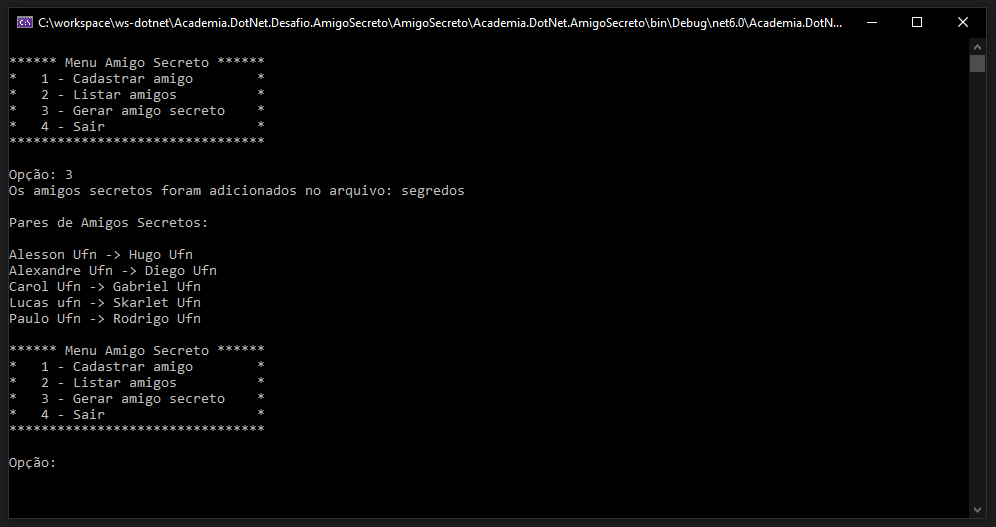
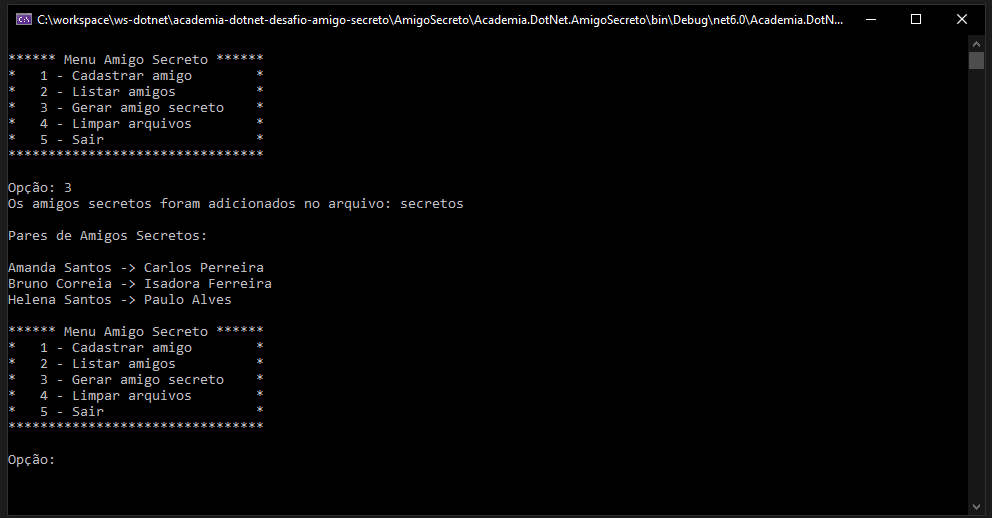
Aplicando melhorias

diff --git a/AmigoSecreto/Academia.DotNet.AmigoSecreto/Data/Persistencia.cs b/AmigoSecreto/Academia.DotNet.AmigoSecreto/Data/Persistencia.cs
@@ -23,6 +23,11 @@ namespace Academia.DotNet.AmigoSecreto.Data
                         listaDeAmigos.Add(new Amigo(dados[0], dados[1]));
                     }
                 }
+
+                if (listaDeAmigos.Count == 0)
+                {
+                    Console.WriteLine("Aviso: A lista de amigos está vazia.");
+                }
             }
 
             return listaDeAmigos;
@@ -46,7 +51,7 @@ namespace Academia.DotNet.AmigoSecreto.Data
             Console.WriteLine("O amigo foi adicionado no arquivo: amigos");
         }
 
-        public List<Tuple<Amigo, Amigo>> LerParesAmigosSecretos()
+        public List<Tuple<Amigo, Amigo>> LerParesDosAmigosSecretos()
         {
             List<Tuple<Amigo, Amigo>> paresAmigosSecretos = new List<Tuple<Amigo, Amigo>>();
 
@@ -58,17 +63,32 @@ namespace Academia.DotNet.AmigoSecreto.Data
                     {
                         string linha = streamReader.ReadLine();
                         string[] dados = linha.Split(';');
-                        Amigo amigo1 = new Amigo(dados[0], "");
-                        Amigo amigo2 = new Amigo(dados[1], "");
-                        paresAmigosSecretos.Add(new Tuple<Amigo, Amigo>(amigo1, amigo2));
+
+                        if (dados.Length >= 4)
+                        {
+                            Amigo amigoEsquerdo = new Amigo(dados[0], dados[1]);
+                            Amigo amigoDireito = new Amigo(dados[2], dados[3]);
+
+                            paresAmigosSecretos.Add(new Tuple<Amigo, Amigo>(amigoEsquerdo, amigoDireito));
+                        }
+                        else
+                        {
+                            Console.WriteLine("Aviso: Arquivo com dados insuficientes.");
+                        }
                     }
                 }
+            }
+
+            foreach (var par in paresAmigosSecretos)
+            {
+                Console.WriteLine($"{par.Item1.Nome} -> {par.Item2.Nome}");
             }
 
             return paresAmigosSecretos;
         }
 
-        public void SalvarParesAmigosSecretos(List<Tuple<Amigo, Amigo>> paresAmigosSecretos)
+
+        public void SalvarParesDosAmigosSecretos(List<Tuple<Amigo, Amigo>> paresAmigosSecretos)
         {
             if (!Directory.Exists(Path.GetDirectoryName(caminhoDoArquivoSecretos)))
             {
@@ -84,7 +104,24 @@ namespace Academia.DotNet.AmigoSecreto.Data
                 }
             }
 
-            Console.WriteLine("Os amigos secretos foram adicionados no arquivo: segredos");
+            Console.WriteLine("Os amigos secretos foram adicionados no arquivo: secretos");
+        }
+
+        public void LimparConteudoDosArquivos()
+        {
+            LimparConteudoDoArquivo(caminhoDoArquivoAmigos);
+            LimparConteudoDoArquivo(caminhoDoArquivoSecretos);
+        }
+
+        private void LimparConteudoDoArquivo(string caminhoArquivo)
+        {
+            if (File.Exists(caminhoArquivo))
+            {
+                using (StreamWriter writer = new StreamWriter(caminhoArquivo))
+                {
+                    writer.Write(string.Empty);
+                }
+            }
         }
     }
 }

diff --git a/AmigoSecreto/Academia.DotNet.AmigoSecreto/Program.cs b/AmigoSecreto/Academia.DotNet.AmigoSecreto/Program.cs
@@ -19,7 +19,8 @@ internal class Program
             Console.WriteLine("*   1 - Cadastrar amigo        *");
             Console.WriteLine("*   2 - Listar amigos          *");
             Console.WriteLine("*   3 - Gerar amigo secreto    *");
-            Console.WriteLine("*   4 - Sair                   *");
+            Console.WriteLine("*   4 - Limpar arquivos        *");
+            Console.WriteLine("*   5 - Sair                   *");
             Console.WriteLine("********************************");
 
             Console.Write("\nOpção: ");
@@ -82,14 +83,17 @@ internal class Program
                     if (paresAmigosSecretos != null)
                     {
                         Console.WriteLine("\nPares de Amigos Secretos:\n");
-                        foreach (var par in paresAmigosSecretos)
-                        {
-                            Console.WriteLine($"{par.Item1.Nome} -> {par.Item2.Nome}");
-                        }
+                        persistencia.LerParesDosAmigosSecretos();
                     }
                     break;
 
                 case "4":
+                    Console.WriteLine("\nLimpando as Listas!\n");
+                    amigos.Clear();
+                    persistencia.LimparConteudoDosArquivos();
+                    break;
+
+                case "5":
                     sair = true;
                     break;
 

diff --git a/AmigoSecreto/Academia.DotNet.AmigoSecreto/Communications/Comunicacao.cs b/AmigoSecreto/Academia.DotNet.AmigoSecreto/Communications/Comunicacao.cs
@@ -7,6 +7,7 @@ namespace Academia.DotNet.AmigoSecreto.Communications
     public class Comunicacao
     {
         private List<Amigo> listaDeAmigos;
+        Persistencia persistencia = new Persistencia();
 
         public Comunicacao(List<Amigo> amigos)
         {
@@ -22,6 +23,7 @@ namespace Academia.DotNet.AmigoSecreto.Communications
 
         public List<Amigo> ListarAmigos()
         {
+            persistencia.LerAmigosDoArquivo();
             return listaDeAmigos;
         }
 
@@ -29,7 +31,7 @@ namespace Academia.DotNet.AmigoSecreto.Communications
         {
             if (listaDeAmigos.Count < 2)
             {
-                Console.WriteLine("Não há amigos suficientes para gerar amigos secretos.");
+                Console.WriteLine("\nNão há amigos suficientes para gerar amigos secretos.");
                 return new List<Tuple<Amigo, Amigo>>();
             }
             else 
@@ -51,8 +53,7 @@ namespace Academia.DotNet.AmigoSecreto.Communications
                     paresAmigosSecretos.Add(new Tuple<Amigo, Amigo>(amigo, amigoSecreto));
                 }
 
-                Persistencia persistencia = new Persistencia();
-                persistencia.SalvarParesAmigosSecretos(paresAmigosSecretos);
+                persistencia.SalvarParesDosAmigosSecretos(paresAmigosSecretos);
 
                 return paresAmigosSecretos;
             }
